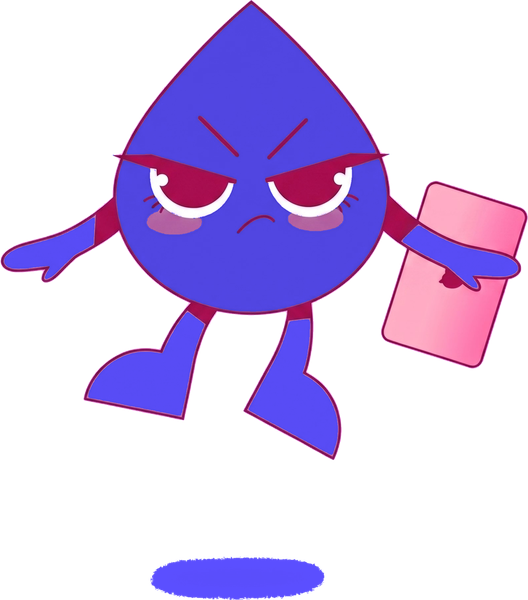
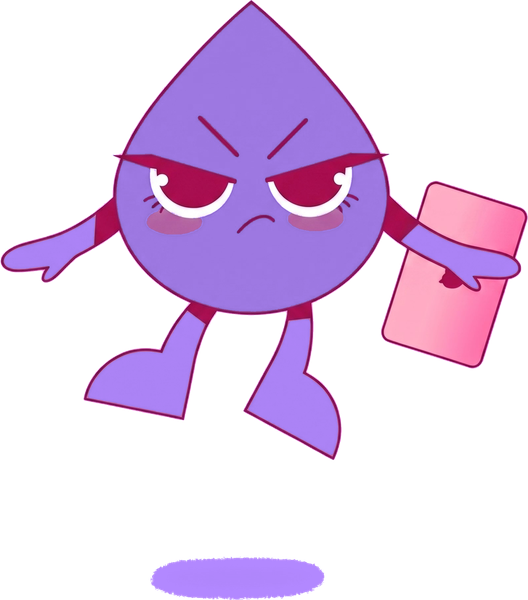
Mascot: recolour to #B388FF, add white gloss, size up
- Recoloured the character to #B388FF.
- Added a subtle white highlight/gloss masked to the mascot silhouette in the
  Mascot component (cascades to every pose/screen).
- Bumped the Analysis header mascot from 150 to 172px.

diff --git a/components/kit/Mascot.tsx b/components/kit/Mascot.tsx
@@ -23,6 +23,8 @@ export function Mascot({
   sparkle?: boolean;
 }) {
   const isBadge = state === "annoyed";
+  const src = `/mascot/${state}.png`;
+  const fit = isBadge ? "cover" : "contain";
 
   return (
     <div className="relative" style={{ width: size, height: size }} aria-hidden>
@@ -42,13 +44,29 @@ export function Mascot({
         }`}
       >
         <Image
-          src={`/mascot/${state}.png`}
+          src={src}
           alt=""
           fill
           sizes={`${size}px`}
-          className={isBadge ? "object-cover" : "object-contain"}
+          className={fit === "cover" ? "object-cover" : "object-contain"}
           priority
           unoptimized
+        />
+        {/* Subtle white gloss/highlight, masked to the mascot's silhouette. */}
+        <div
+          className="pointer-events-none absolute inset-0"
+          style={{
+            backgroundImage:
+              "radial-gradient(60% 45% at 35% 24%, rgba(255,255,255,0.5), rgba(255,255,255,0) 60%)",
+            WebkitMaskImage: `url(${src})`,
+            maskImage: `url(${src})`,
+            WebkitMaskSize: fit,
+            maskSize: fit,
+            WebkitMaskRepeat: "no-repeat",
+            maskRepeat: "no-repeat",
+            WebkitMaskPosition: "center",
+            maskPosition: "center",
+          }}
         />
       </div>
     </div>

diff --git a/app/(app)/dashboard/employee/AnalysisView.tsx b/app/(app)/dashboard/employee/AnalysisView.tsx
@@ -71,7 +71,7 @@ export function AnalysisView({
         eyebrow="Individual"
         title={mode === "company" ? "My Dashboard" : "Overall Career Happiness"}
         subtitle={mode === "company" ? "Current company" : "Aggregate across your career"}
-        avatar={<Mascot state={mascotForScore(data.overall, data.enoughData)} size={150} />}
+        avatar={<Mascot state={mascotForScore(data.overall, data.enoughData)} size={172} />}
       />
 
       <Card>

diff --git a/scripts/process-mascot.py b/scripts/process-mascot.py
@@ -29,7 +29,7 @@ THRESH_DEFAULT = 48  # colour distance counted as "same as background"
 
 # Recolour the character's violet body/outline to this colour (shading kept).
 # Set RECOLOR = None to skip and use the original purple art.
-RECOLOR = "#5D4FFF"
+RECOLOR = "#B388FF"
 
 # Drop opaque islands smaller than this fraction of the frame (stray specks /
 # watermark bits) before cropping, so the crop hugs the real character + props.
